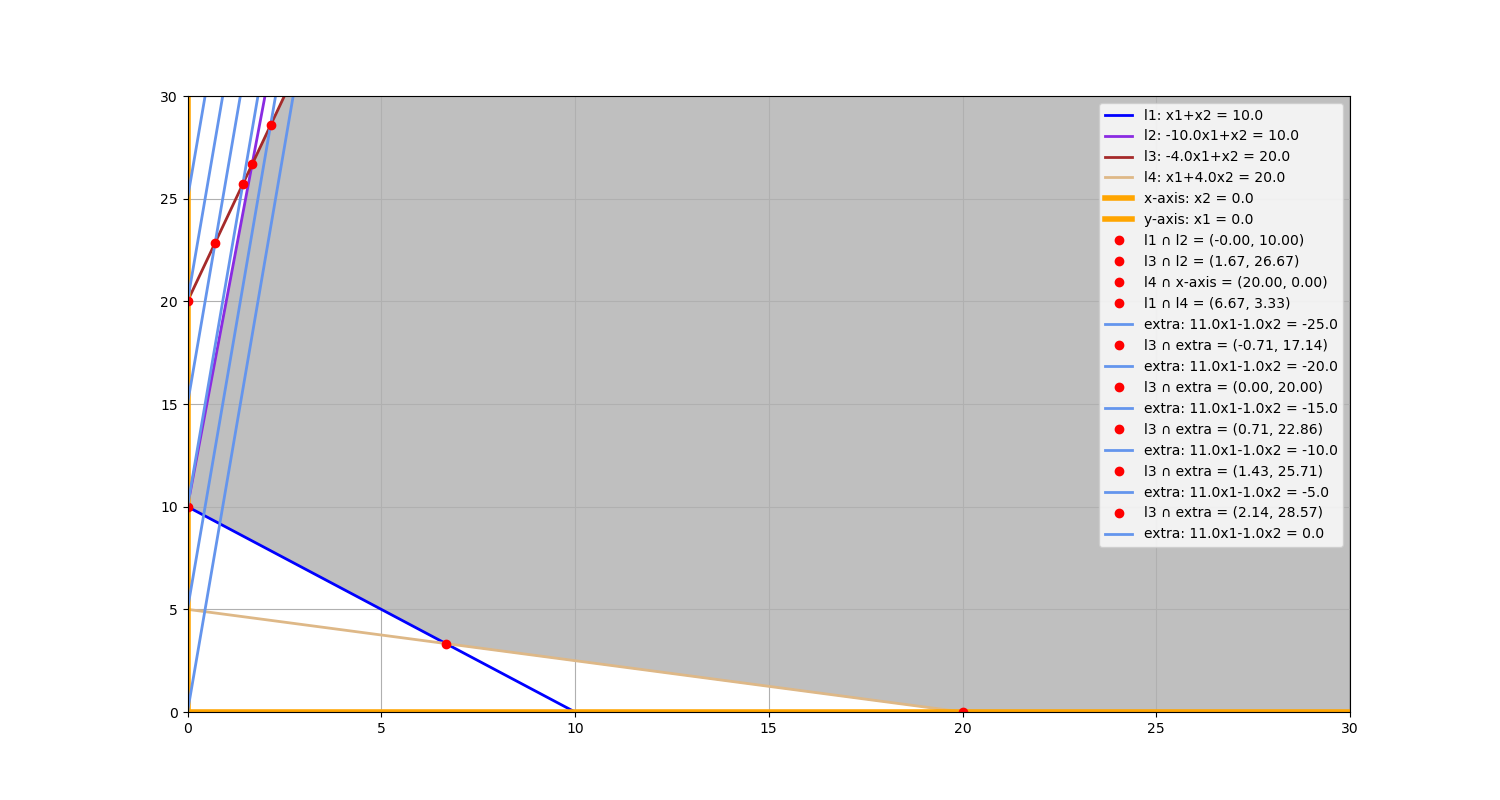
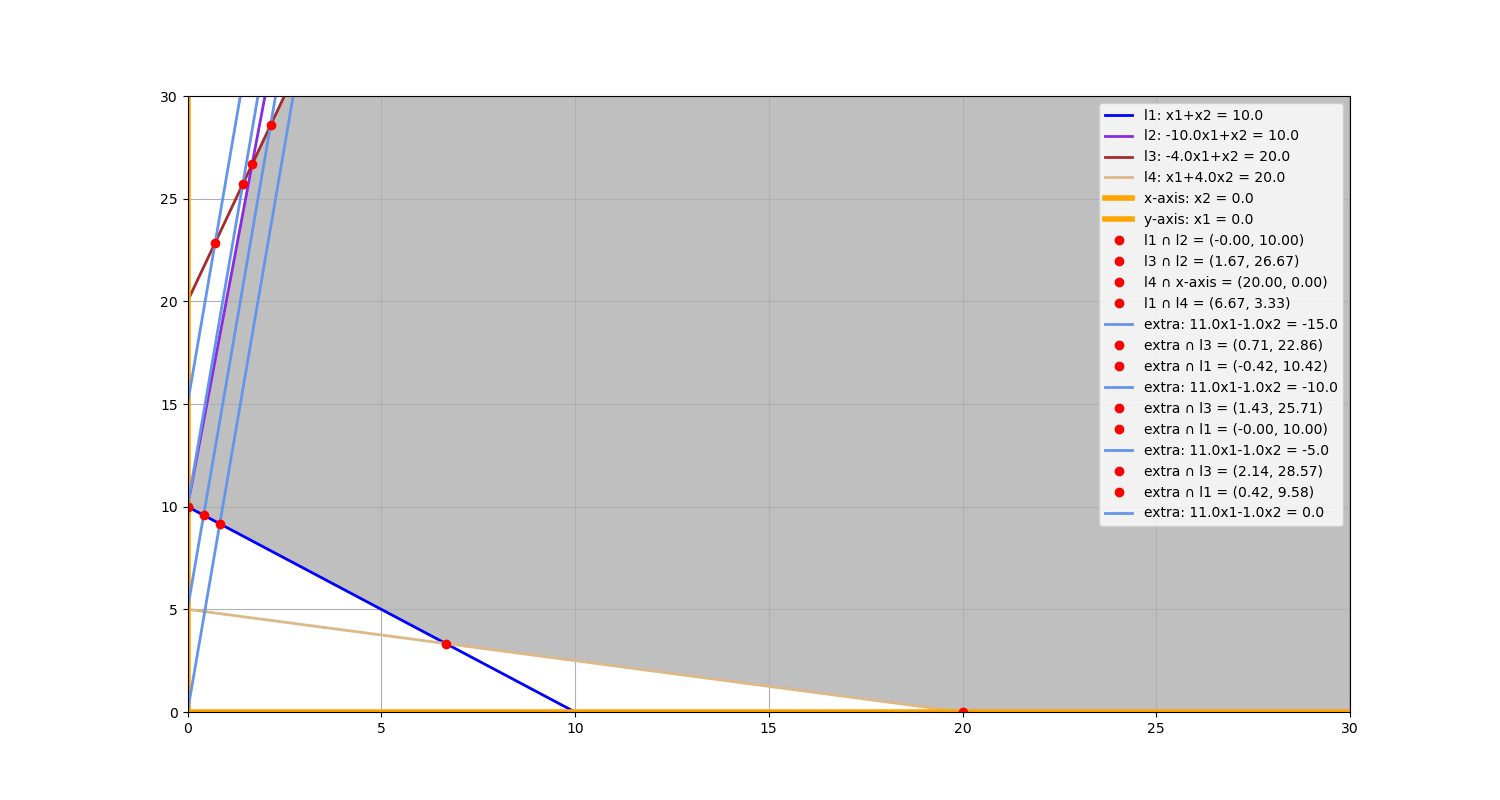
changing the save images

diff --git a/2023-2024/Assignment_1/exercise_01.py b/2023-2024/Assignment_1/exercise_01.py
@@ -71,6 +71,7 @@ class Gui(LinearGUI):
     def solution(self, a, b, minlim, maxlim, legend=True):
 
         line_l3 = [l for l in self.lines if l.name == "l3"][0]
+        line_l1 = [l for l in self.lines if l.name == "l1"][0]
         # extra_lines = [line(a, b, i, "extra") for i in range(minlim, maxlim, step=0.5)]
 
         counter = minlim
@@ -78,15 +79,23 @@ class Gui(LinearGUI):
             extra = line(a, b, counter, "extra")
             extra.plot(self.xAxis, "cornflowerblue")
             extra.legend_show = False
-            # extra.intersection(line_l3, plotting=False)
+            extra.intersection(line_l3)
+            extra.intersection(line_l1)
             counter += self.step
 
 
 class Exercise01:
     def __init__(self, *args, **kwargs) -> None:
-        self.parent = Path(__file__).parent
         self.gui = kwargs.get("gui", Gui(plt, name="Feasible Region", figsize=(15, 8)))
-        self.img_folder = Path(Path(__file__).parent, "img")
+        self.save_images = kwargs.get("save_images", False)
+
+    def save_image(self, file_name):
+        if self.save_images:
+            parent = Path(__file__).parent
+            img_folder = Path(parent, "img")
+
+            image_file = Path(img_folder, file_name)
+            self.gui.plt.savefig(image_file, dpi="figure")
 
     def feasible_region(self):
         self.gui.create_figure()
@@ -104,7 +113,7 @@ class Exercise01:
         self.gui.name = "Z: min 11x1-x2"
         self.gui.create_figure()
         self.gui.step = 5
-        self.gui.solution(11, -1, -25, 5)
+        self.gui.solution(11, -1, -15, 5)
         image_file = Path(self.img_folder, "exerc01_b.png")
         self.gui.plt.savefig(image_file, dpi="figure")
 
@@ -115,7 +124,7 @@ def main():
     exerc01 = Exercise01(gui=gui)
     # exerc01.feasible_region()
     # exerc01.exerc01_a()
-    exerc01.exerc01_b()
+    # exerc01.exerc01_b()
 
     gui.show()
 
